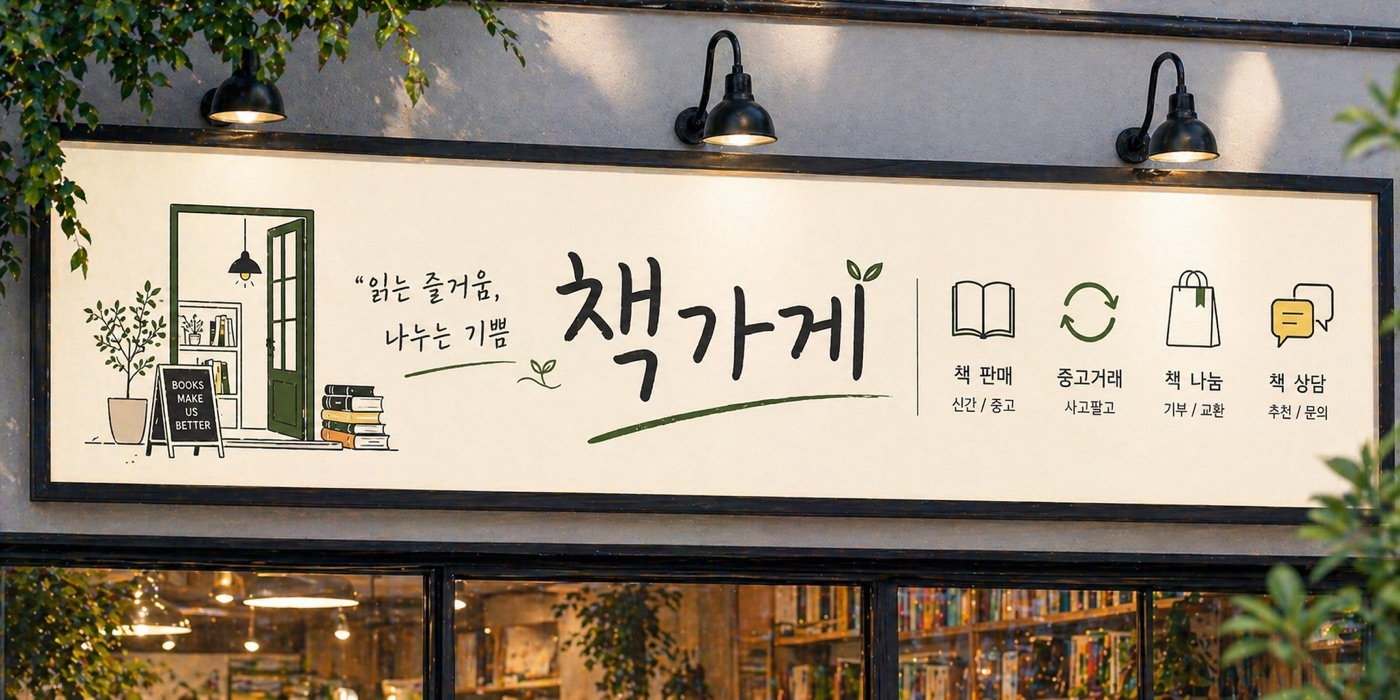
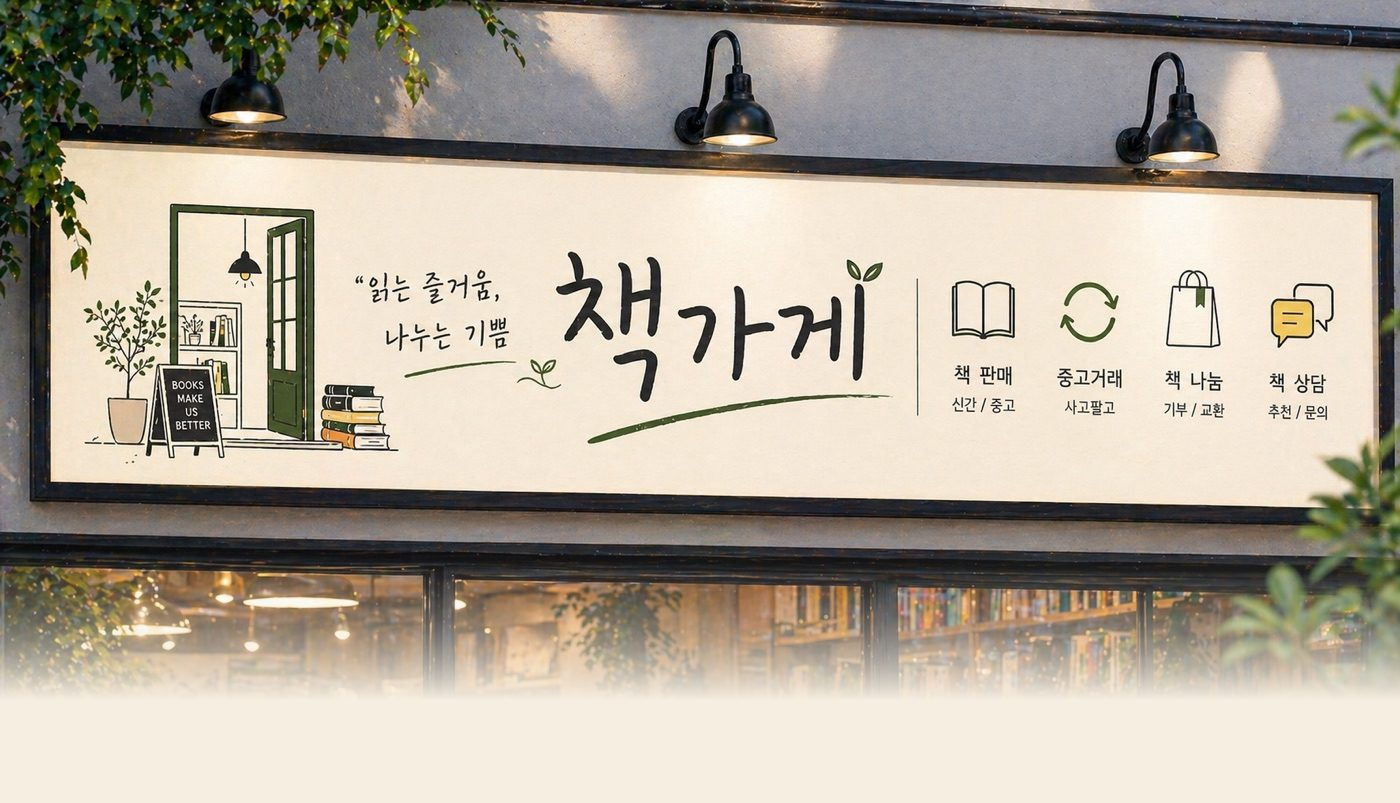
style: match signboard fade behavior

diff --git a/app/market/index.tsx b/app/market/index.tsx
@@ -37,32 +37,21 @@ const marketItems = [
 
 const bookstoreSignboardSource: ImageSourcePropType =
   typeof bookstoreSignboardImage === 'string' ? { uri: bookstoreSignboardImage } : bookstoreSignboardImage;
-const bookstoreHeroRatio = 803 / 1400;
-const bookstoreImageRatio = 700 / 1400;
+const bookstoreSignboardRatio = 803 / 1400;
 
 export default function MarketScreen() {
   const { session } = useAuth();
   const { width } = useWindowDimensions();
-  const bookstoreHeroHeight = Math.round(width * bookstoreHeroRatio);
-  const bookstoreImageHeight = Math.round(width * bookstoreImageRatio);
+  const bookstoreHeroHeight = Math.round(width * bookstoreSignboardRatio);
 
   return (
     <SafeAreaView style={styles.safeArea}>
       <ScrollView contentContainerStyle={styles.content} showsVerticalScrollIndicator={false}>
         <View style={[styles.bookstoreHero, { height: bookstoreHeroHeight }]}>
-          <Image
-            resizeMode="cover"
-            source={bookstoreSignboardSource}
-            style={[styles.bookstoreHeroImage, { height: bookstoreImageHeight }]}
-          />
+          <Image resizeMode="contain" source={bookstoreSignboardSource} style={styles.bookstoreHeroImage} />
           <LinearGradient
-            colors={[
-              'rgba(246, 238, 225, 0)',
-              'rgba(246, 238, 225, 0.26)',
-              'rgba(246, 238, 225, 0.78)',
-              '#F6EEE1',
-            ]}
-            locations={[0, 0.28, 0.68, 1]}
+            colors={['rgba(246, 238, 225, 0)', 'rgba(246, 238, 225, 0.38)', '#F6EEE1']}
+            locations={[0, 0.48, 1]}
             pointerEvents="none"
             style={styles.bookstoreHeroGradient}
           />
@@ -134,11 +123,12 @@ const styles = StyleSheet.create({
     position: 'relative',
   },
   bookstoreHeroImage: {
+    height: '100%',
     width: '100%',
   },
   bookstoreHeroGradient: {
     bottom: -1,
-    height: 156,
+    height: 118,
     left: 0,
     position: 'absolute',
     right: 0,

diff --git a/app/rooms/index.tsx b/app/rooms/index.tsx
@@ -24,8 +24,7 @@ import { listFeaturedRooms, type RoomSummary } from '../../src/services/rooms';
 
 const bookroomSignboardSource: ImageSourcePropType =
   typeof bookroomSignboardImage === 'string' ? { uri: bookroomSignboardImage } : bookroomSignboardImage;
-const bookroomHeroRatio = 803 / 1400;
-const bookroomImageRatio = 700 / 1400;
+const bookroomSignboardRatio = 803 / 1400;
 
 export default function RoomsScreen() {
   const { session } = useAuth();
@@ -78,26 +77,16 @@ export default function RoomsScreen() {
     { key: 'new', label: '새 방' },
     { key: 'popular', label: '인기' },
   ];
-  const bookroomHeroHeight = Math.round(width * bookroomHeroRatio);
-  const bookroomImageHeight = Math.round(width * bookroomImageRatio);
+  const bookroomHeroHeight = Math.round(width * bookroomSignboardRatio);
 
   return (
     <SafeAreaView style={styles.safeArea}>
       <ScrollView contentContainerStyle={styles.content} showsVerticalScrollIndicator={false}>
         <View style={[styles.bookroomHero, { height: bookroomHeroHeight }]}>
-          <Image
-            resizeMode="cover"
-            source={bookroomSignboardSource}
-            style={[styles.bookroomHeroImage, { height: bookroomImageHeight }]}
-          />
+          <Image resizeMode="contain" source={bookroomSignboardSource} style={styles.bookroomHeroImage} />
           <LinearGradient
-            colors={[
-              'rgba(247, 241, 229, 0)',
-              'rgba(247, 241, 229, 0.26)',
-              'rgba(247, 241, 229, 0.78)',
-              '#F7F1E5',
-            ]}
-            locations={[0, 0.28, 0.68, 1]}
+            colors={['rgba(247, 241, 229, 0)', 'rgba(247, 241, 229, 0.38)', '#F7F1E5']}
+            locations={[0, 0.48, 1]}
             pointerEvents="none"
             style={styles.bookroomHeroGradient}
           />
@@ -383,11 +372,12 @@ const styles = StyleSheet.create({
     position: 'relative',
   },
   bookroomHeroImage: {
+    height: '100%',
     width: '100%',
   },
   bookroomHeroGradient: {
     bottom: -1,
-    height: 156,
+    height: 118,
     left: 0,
     position: 'absolute',
     right: 0,